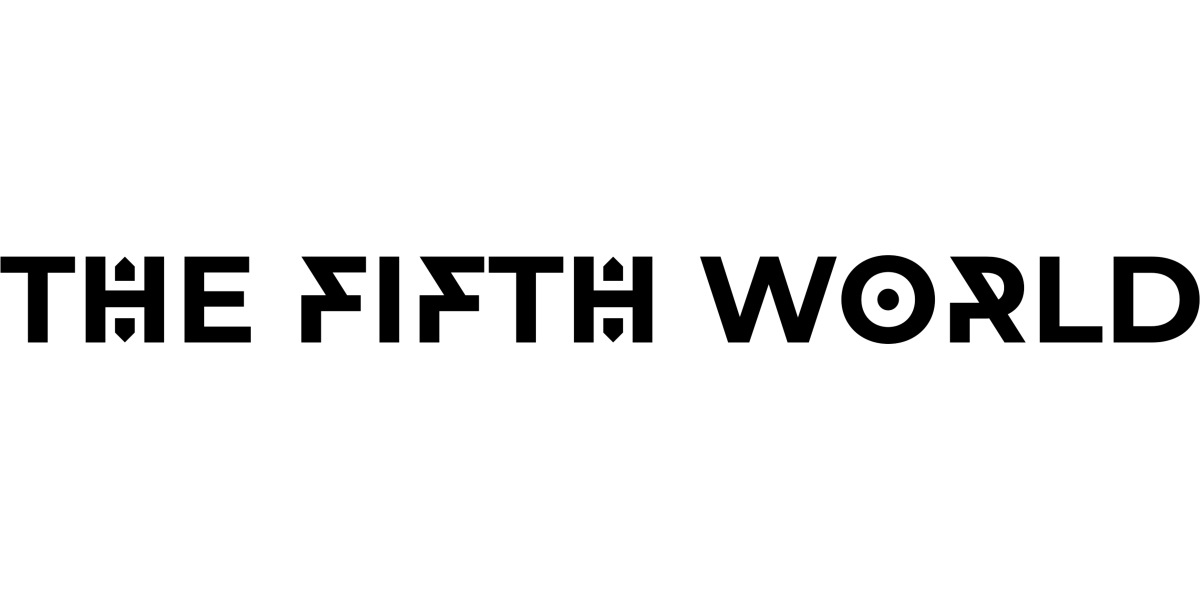
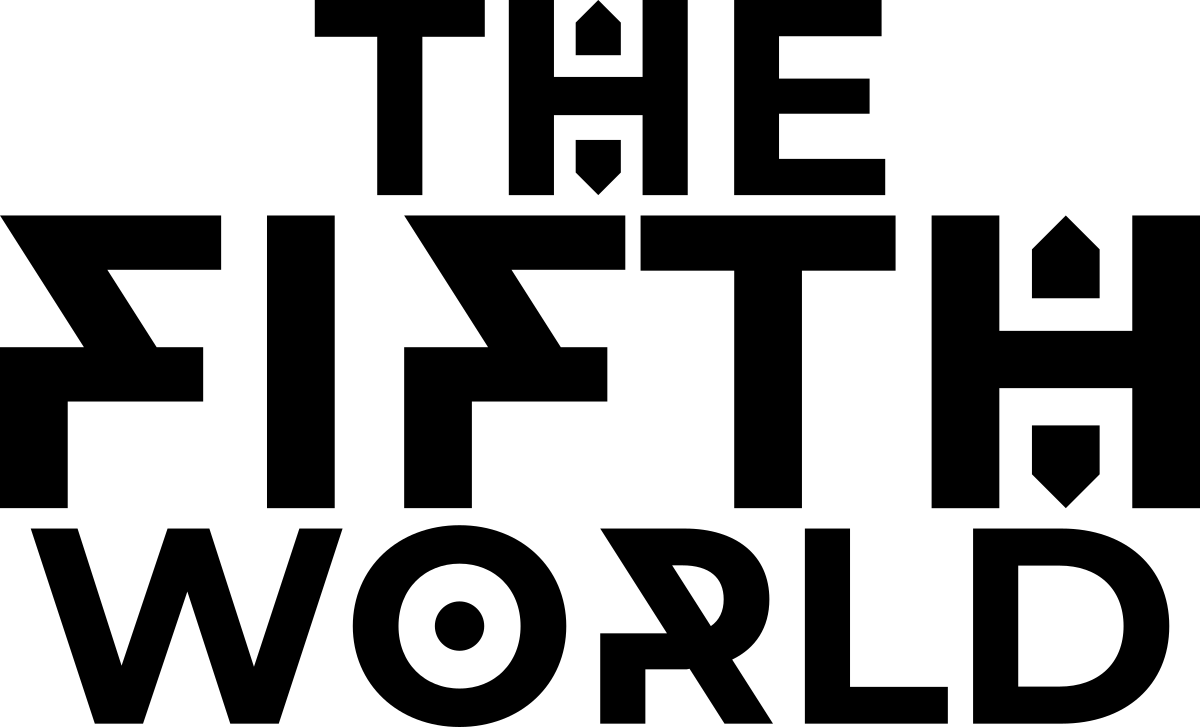
Improve 5W branding

diff --git a/src/styles/components/_project.scss b/src/styles/components/_project.scss
@@ -6,3 +6,9 @@
     max-width: 75%;
   }
 }
+
+#thefifthworld {
+  .logo {
+    max-width: 45%;
+  }
+}
